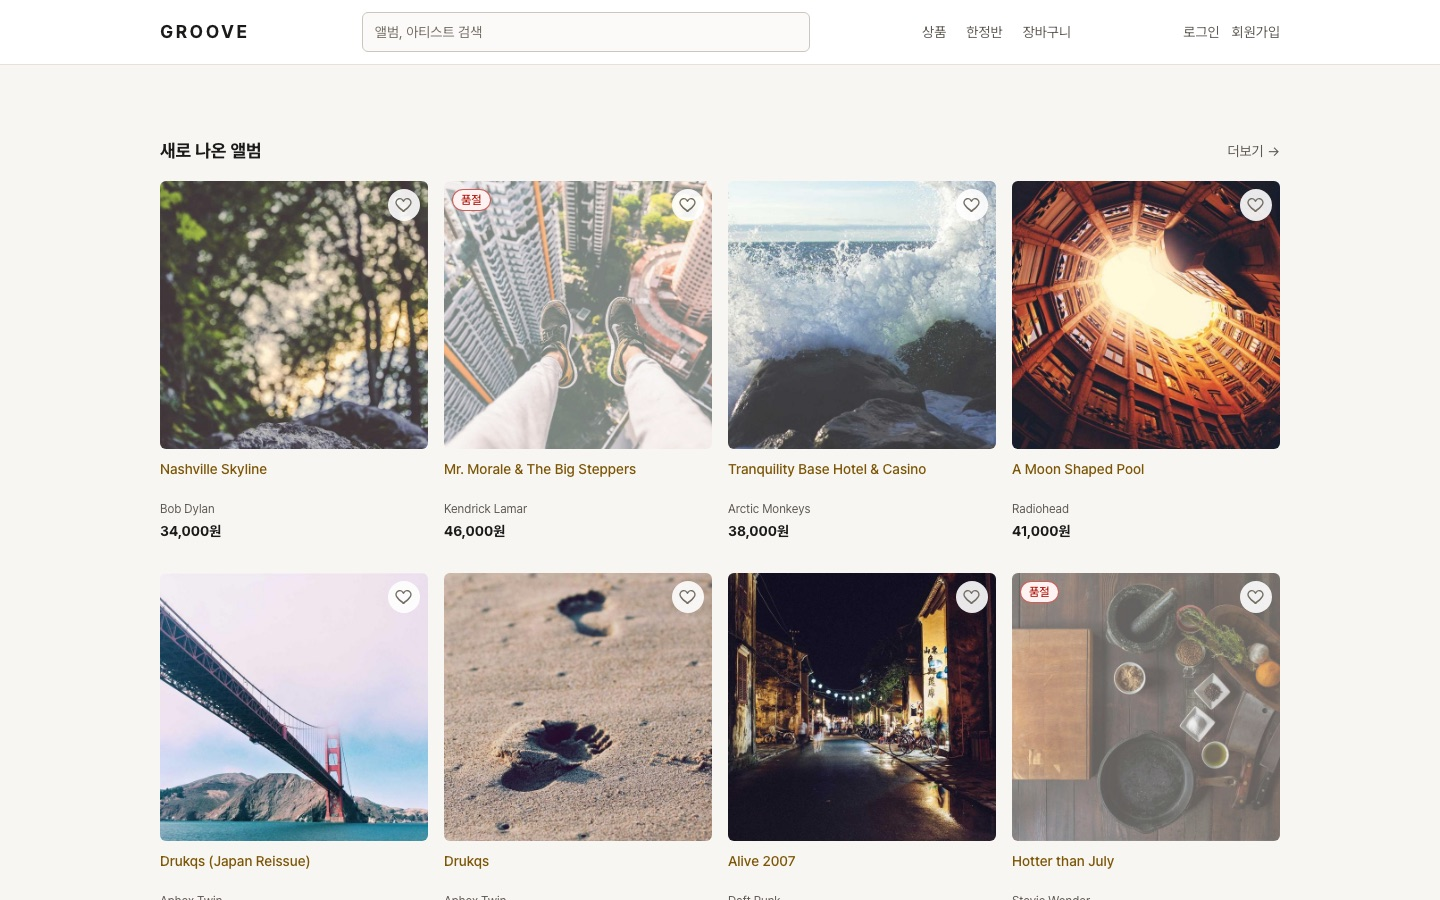
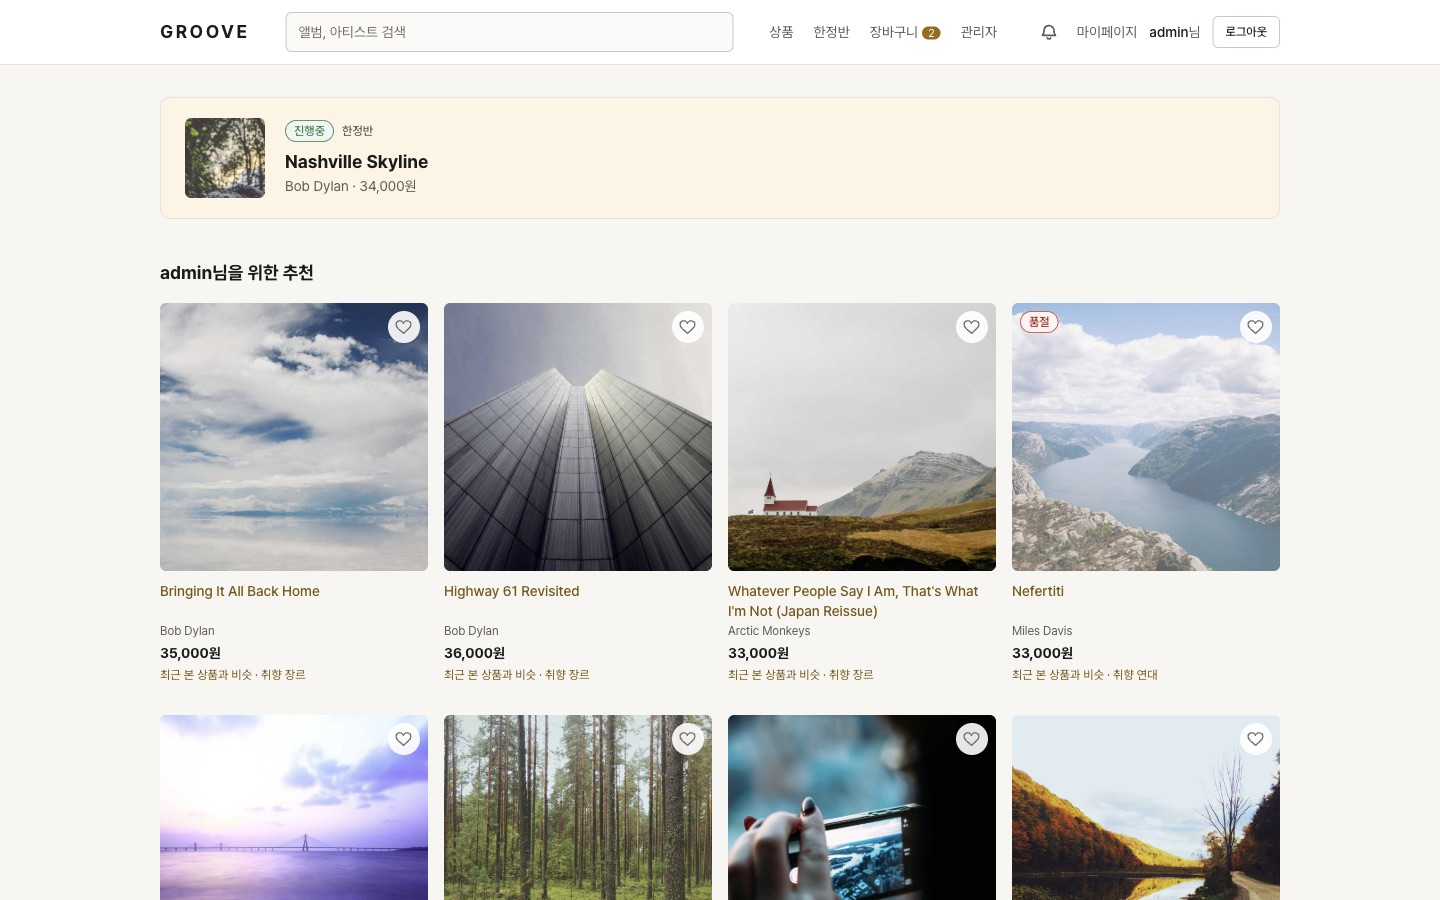
docs: 홈 화면에 개인화 추천 섹션을 반영한다
기존 홈 스크린샷은 비로그인 상태라 추천 기능이 드러나지 않았다.
취향 프로필(장르 3개, 연대 1개)을 설정한 뒤 다시 찍어 한정반 배너와
'admin님을 위한 추천' 섹션이 함께 보이는 화면으로 교체했다.
주요 기능 목록에도 추천을 별도 항목으로 분리해 설명을 보강했다.

diff --git a/README.md b/README.md
@@ -12,13 +12,14 @@ Java 17 / Spring Boot 3.5 + React 18로 만든 LP 이커머스다. 한정반(Lim
 
 | | |
 |---|---|
-| ![홈](.github/assets/home.jpg) 홈 | ![상품 상세](.github/assets/product-detail.jpg) 상품 상세 |
+| ![홈](.github/assets/home.jpg) 홈 · 한정반 배너 · 개인화 추천 | ![상품 상세](.github/assets/product-detail.jpg) 상품 상세 |
 | ![한정반](.github/assets/limited-drop.jpg) 한정반 드롭 | ![장바구니](.github/assets/cart.jpg) 장바구니 |
 | ![관리자 상품 관리](.github/assets/admin-products.jpg) 관리자 · 상품 관리 | |
 
 ## 주요 기능
 
-- **상품 탐색** — 장르·아티스트·가격대 필터, 바코드/카탈로그 번호/키워드 검색, 취향·행동 신호를 조합한 규칙 기반 추천
+- **상품 탐색** — 장르·아티스트·가격대 필터, 바코드/카탈로그 번호/키워드 검색
+- **추천** — 취향 프로필(장르·아티스트·연대)과 최근 본 상품·구매·위시리스트 같은 행동 신호를 가중치 합산해 홈에 "OO님을 위한 추천"으로 보여준다. 학습 모델 없이도 무작위 대비 8.9배, 인기순 대비 5.6배 recall@10을 낸다
 - **한정반(Limited Drop)** — 선착순 구매. Redis Lua로 1차 필터링하고 DB 트랜잭션으로 재확인하는 이중 방어로 초과 판매 0건을 유지한다
 - **주문·결제** — 장바구니, Toss Payments 결제 승인/취소, 쿠폰
 - **회원** — JWT 무상태 인증(Access는 메모리, Refresh는 HttpOnly 쿠키), 위시리스트, 앨범 재입고 구독과 알림
